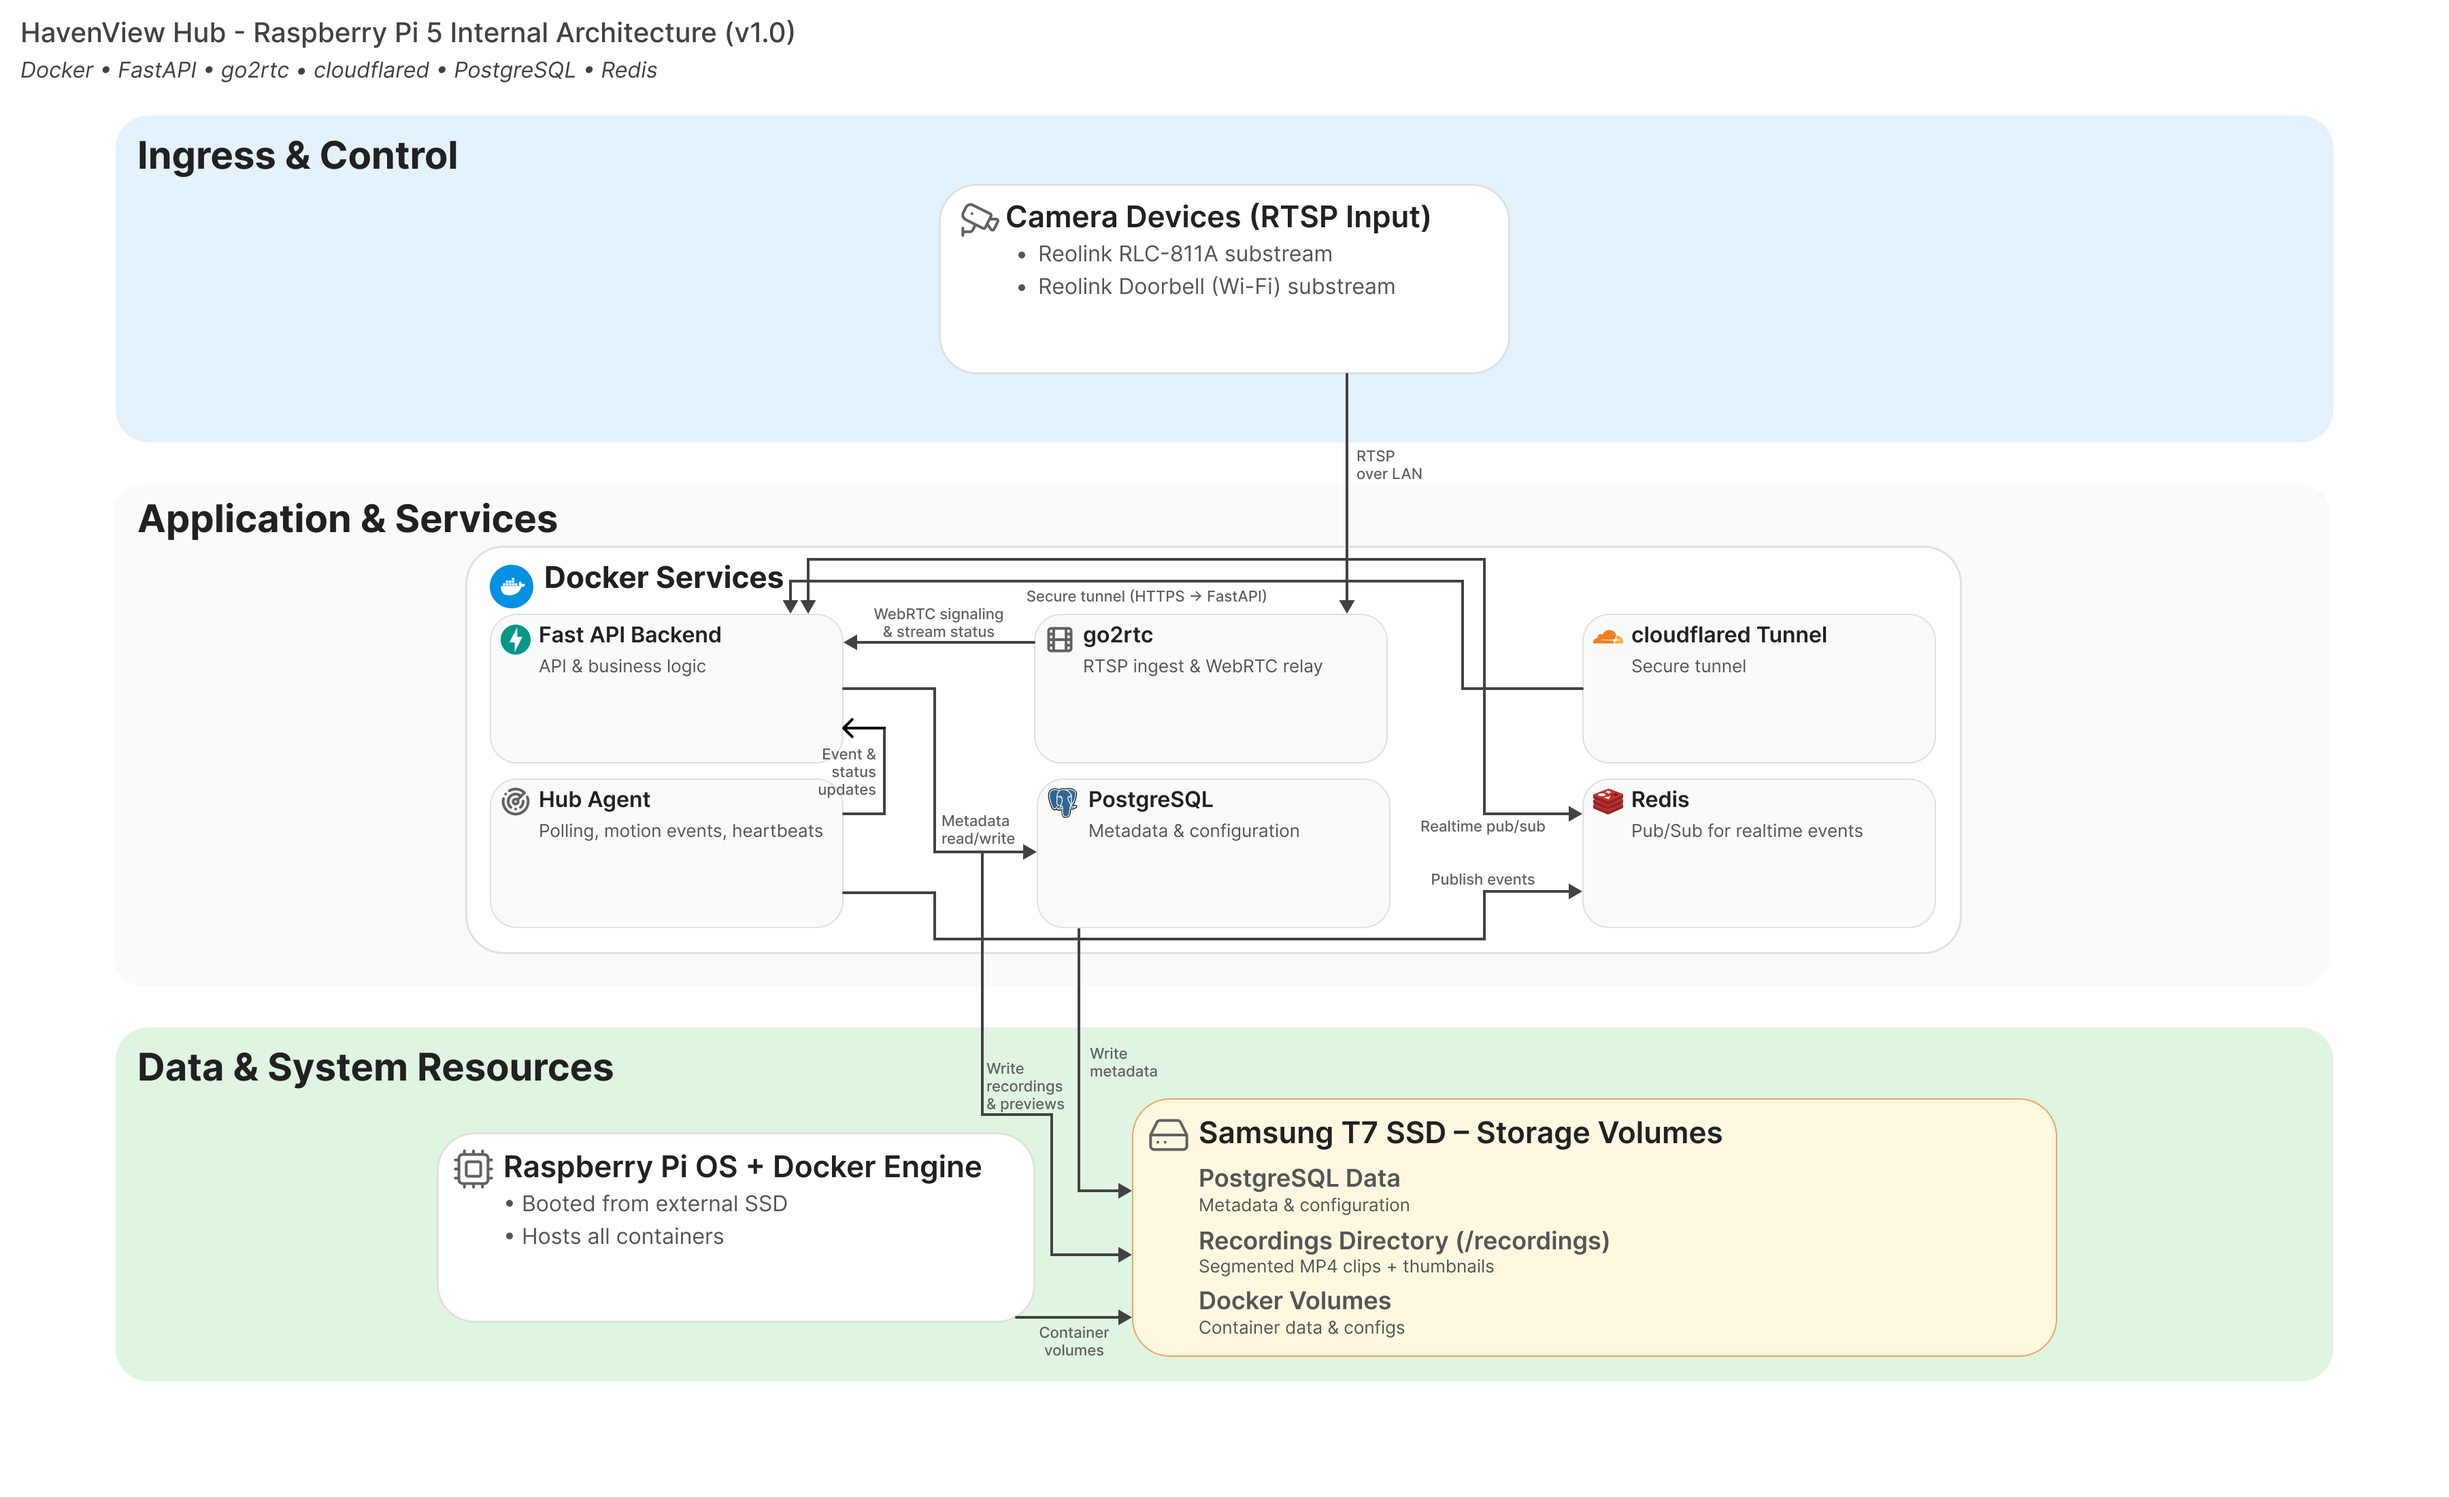
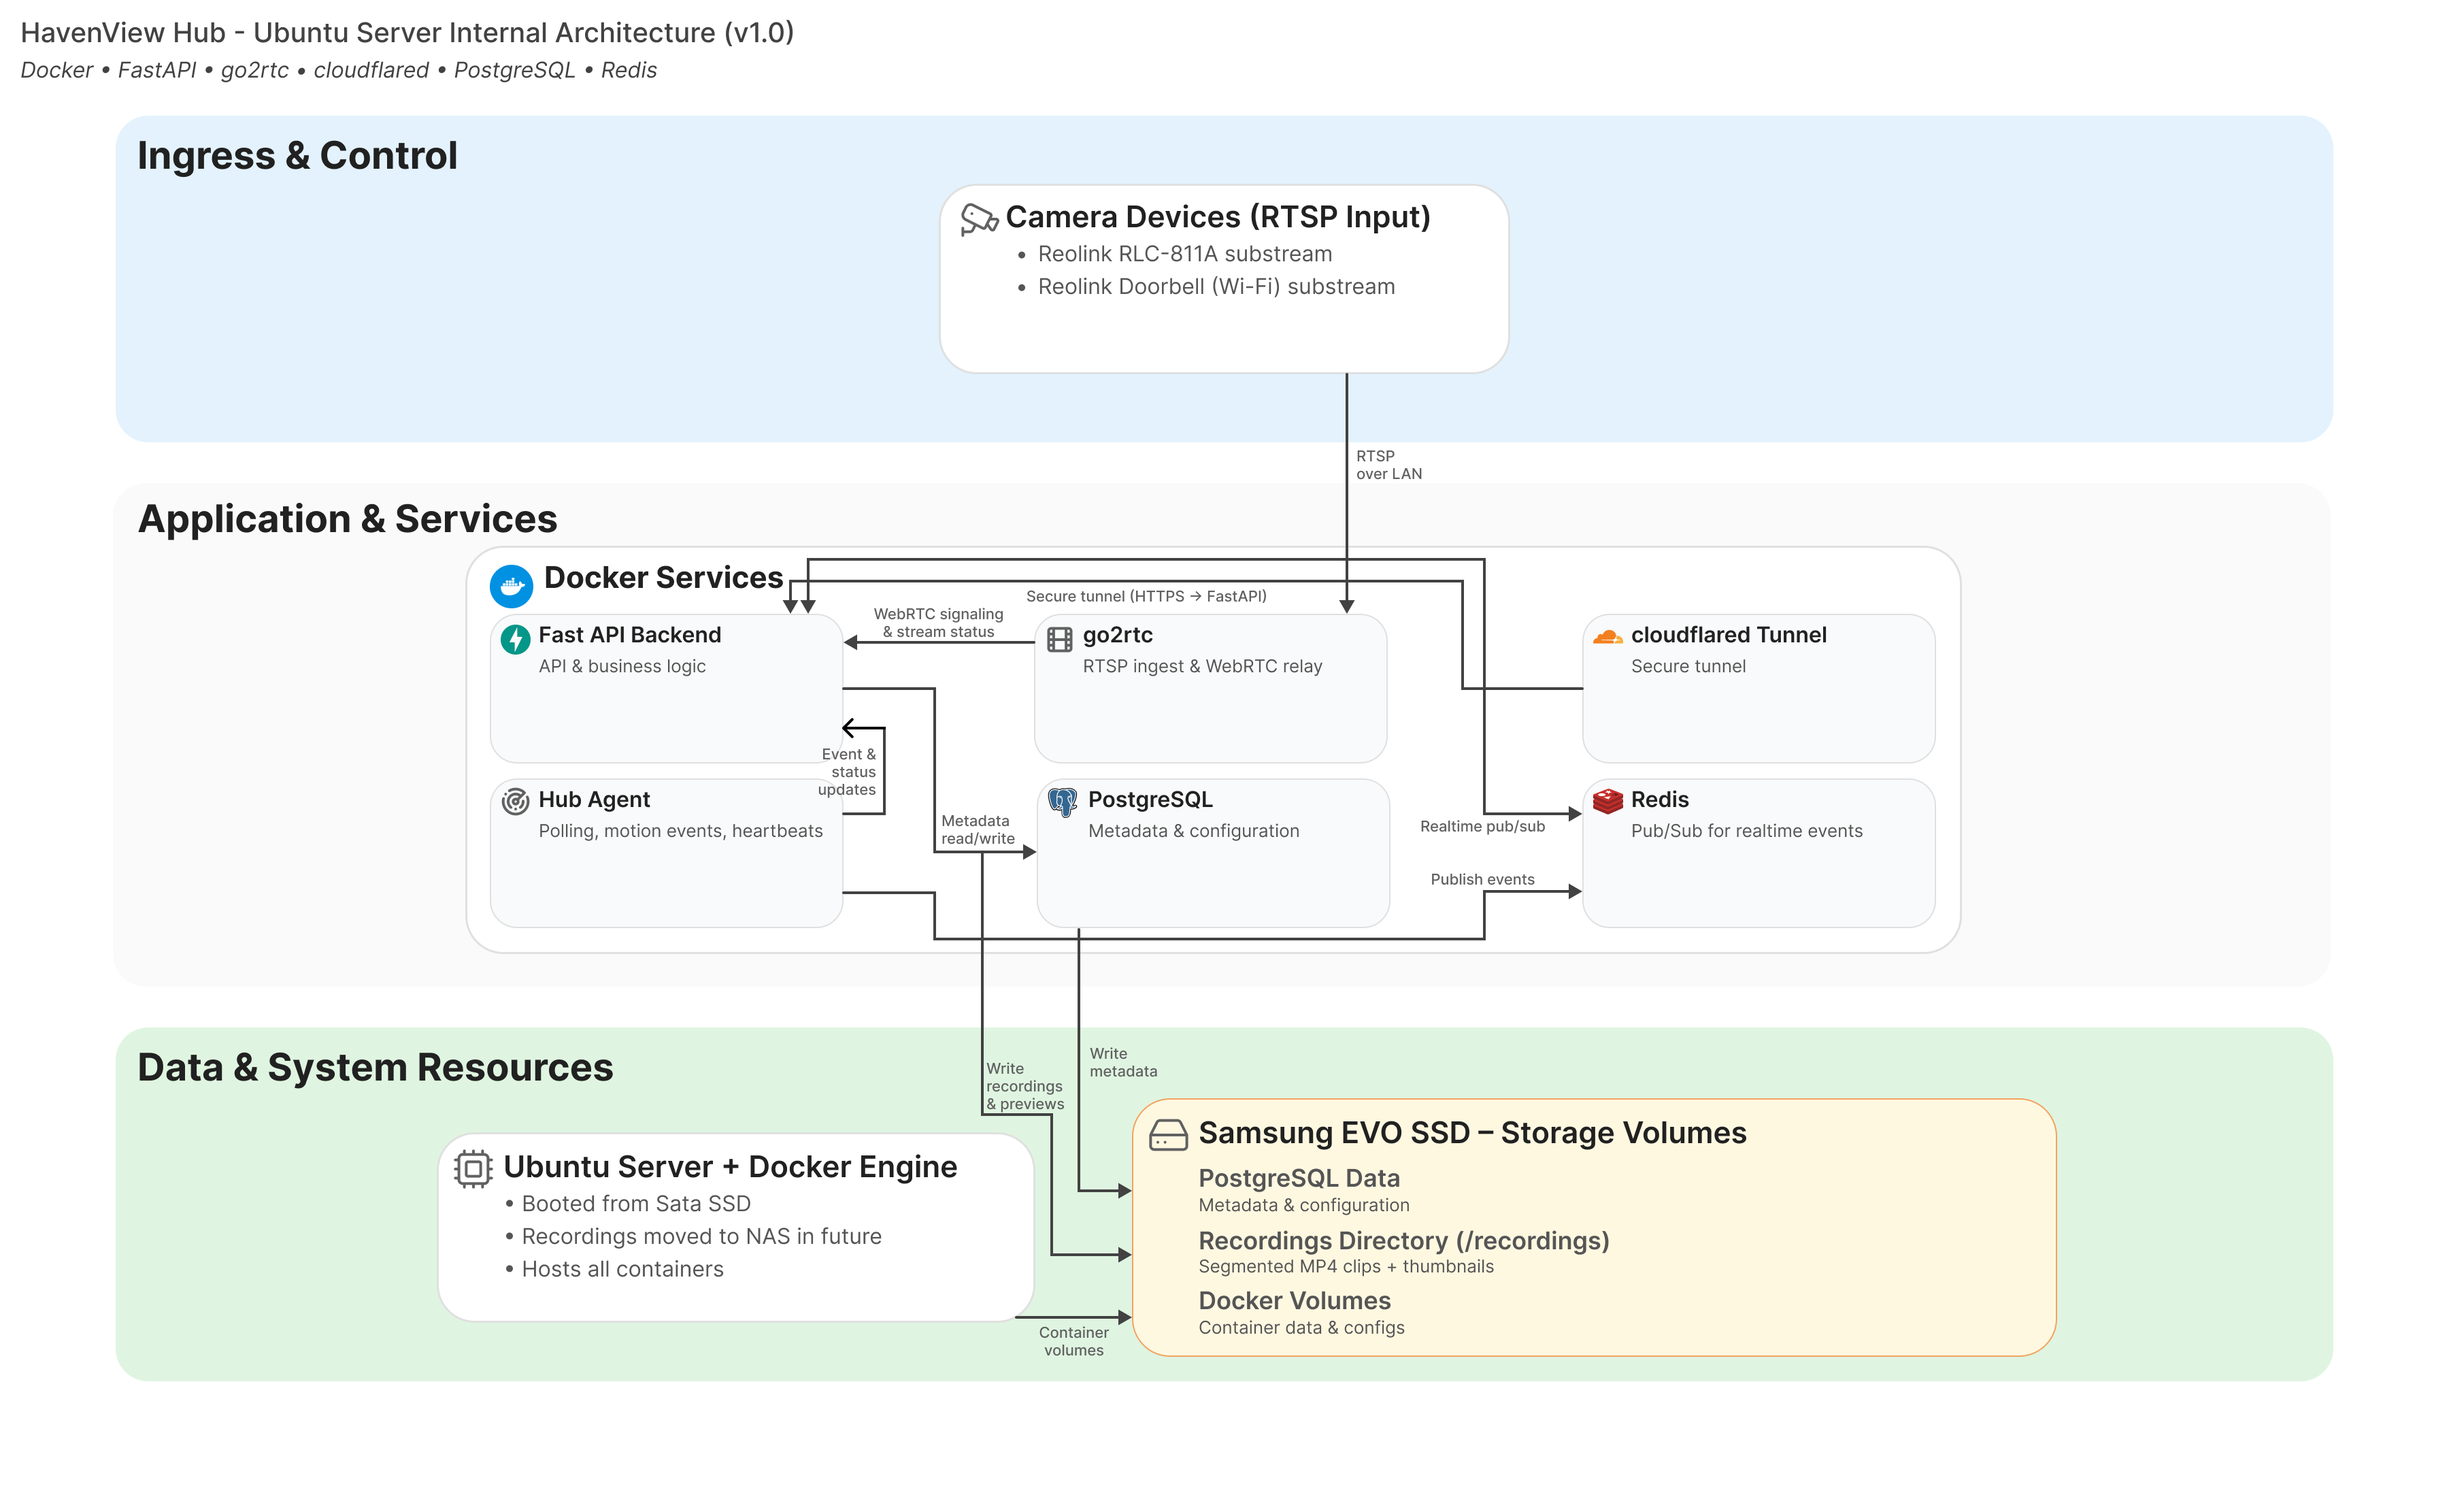
Update ProjectCard to a 2 column layout on desktop

diff --git a/src/components/ProjectCard.tsx b/src/components/ProjectCard.tsx
@@ -28,32 +28,44 @@ export default function ProjectCard({ project }: ProjectCardProps) {
             <p className="text-[11px] text-slate-700 font-light">{meta}</p>
           </div>
 
-          {imgSrc && (
-            <div className="overflow-hidden rounded-xl bg-surface ring-1 ring-primary/5 max-w-2xl">
-              <img
-                src={imgSrc}
-                alt={imgAlt || ""}
-                className="w-full"
-              />
-            </div>
-          )}
+          <div className="grid gap-8 items-start md:grid-cols-[1.25fr_0.75fr]">
+            {imgSrc && (
+              <div className="overflow-hidden rounded-xl bg-surface ring-1 ring-primary/5">
+                <a
+                  href={href}
+                  target="_blank"
+                  rel="noopener noreferrer"
+                  aria-label={`Open ${title}`}
+                >
+                  <img
+                    src={imgSrc}
+                    alt={imgAlt || ""}
+                    className="w-full"
+                  />
+                </a>
+              </div>
+            )}
 
-          <p className="text-sm text-[13px] text-slate-600 leading-relaxed">
-            {description}
-          </p>
+            <div className="flex flex-col space-y-5">
+              <p className="text-sm text-slate-600 leading-relaxed">
+                {description}
+              </p>
+
+              <div className="flex flex-wrap gap-2">
+                {tech.map((item) => (
+                  <span
+                    key={item}
+                    className="rounded-full bg-surface px-2.5 py-1 text-[11px] text-primary/70"
+                  >
+                    {item}
+                  </span>
+                ))}
+              </div>
+            </div>
+          </div>
         </div>
 
         <div className="mt-4 space-y-3">
-          <div className="flex flex-wrap gap-2">
-            {tech.map((item) => (
-              <span
-                key={item}
-                className="rounded-full bg-surface px-2.5 py-1 text-[11px] text-primary/70"
-              >
-                {item}
-              </span>
-            ))}
-          </div>
 
           {(githubHref || href || hrefText) && (
             <div className="flex items-center justify-end gap-3">

diff --git a/src/data/portfolio.ts b/src/data/portfolio.ts
@@ -117,7 +117,7 @@ export const projects: Project[] = [
       "A LAN-first home security platform integrating ONVIF cameras, go2rtc/WebRTC streaming, a FastAPI backend and local motion recordings. It runs on a dedicated Ubuntu server with configurable retention and secure remote access.",
     href: "https://seanwotherspoon.ca/notes/havenview-v1",
     tech: ["FastAPI", "React", "WebRTC", "Docker", "PostgreSQL", "Redis", "Cloudflare"],
-    meta: "2025-present • self-hosted • used by my family",
+    meta: "2025-present • self-hosted • in active use",
     hrefText: "Read case study",
     imgSrc: "/projects/havenview.png",
     imgAlt: "HavenView Raspberry Pi 5 internal architecture diagram showing Docker services, go2rtc, PostgreSQL, Redis, and storage.",
